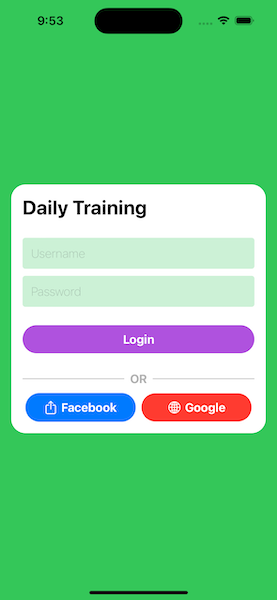
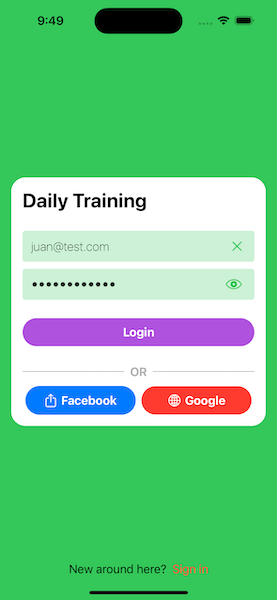
Registration view and login validation

Changed region(s): [[0.0289, 0.27, 0.9819, 0.75], [0.231, 0.93, 0.7509, 0.96], [0.1733, 0.03, 0.231, 0.06]]

diff --git a/DailyTraining-SwiftUI/DailyTraining-SwiftUI/Modules/LoginView/LoginViewModel.swift b/DailyTraining-SwiftUI/DailyTraining-SwiftUI/Modules/LoginView/LoginViewModel.swift
@@ -16,13 +16,16 @@ final class LoginViewModel: ObservableObject {
     @Published var showingAlert: Bool = false
     @Published var isSecured: Bool = true
     
-    @ObservedResults(User.self, where: { $0.email == "juan@test.com" }) var registeredUsers
+    @ObservedResults(User.self) var registeredUsers
     
     lazy var userEmail: String = {
         return username
     }()
     
     func login() {
+        
+        // entry validation
+        
         guard !username.isEmpty, username.isValidEmail() else {
             showingAlert = true
             return
@@ -33,12 +36,21 @@ final class LoginViewModel: ObservableObject {
             return
         }
         
-        guard registeredUsers.count == 1 else {
+        guard registeredUsers.count > 0 else {
             showingAlert = true
             return
         }
         
-        guard let user = registeredUsers.first,
+        // user validation
+        
+        let userList = registeredUsers.where({ $0.email == username })
+        
+        guard userList.count ==  1 else {
+            showingAlert = true
+            return
+        }
+                
+        guard let user = userList.first,
             user.email == username.lowercased(),
             user.password == password else {
             showingAlert = true

diff --git a/DailyTraining-SwiftUI/DailyTraining-SwiftUI/Modules/LoginView/LoginView.swift b/DailyTraining-SwiftUI/DailyTraining-SwiftUI/Modules/LoginView/LoginView.swift
@@ -119,7 +119,6 @@ struct LoginView: View {
                             .padding(.vertical)
                             .alert(isPresented: $viewModel.showingAlert) {
                                 Alert(title: Text("Invalid credentials"),
-                                      message: Text("Required number of characters"),
                                       dismissButton: .default(Text("Got it!")) {
                                     viewModel.password = ""
                                     focusField = .password

diff --git a/README.md b/README.md
@@ -53,6 +53,7 @@ A mobile application for bringing **digital training solution** in the luxury re
 
 <p float="left">
 	<img src="images/login.png" alt="Login" height="400">
+	<img src="images/registration.png" alt="Registration" height="400">
 	<img src="images/splashscreen.png" alt="Splashscreen" height="400">
 </p>
 
